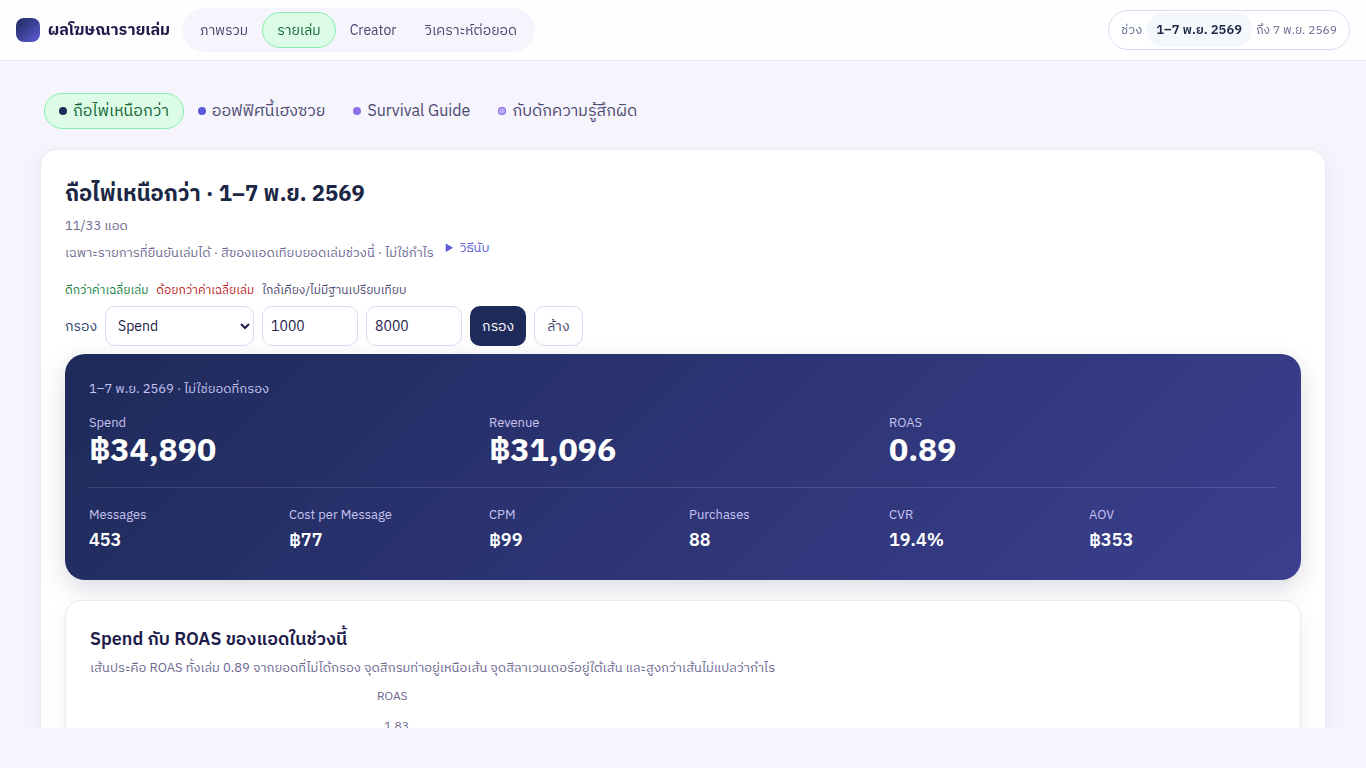
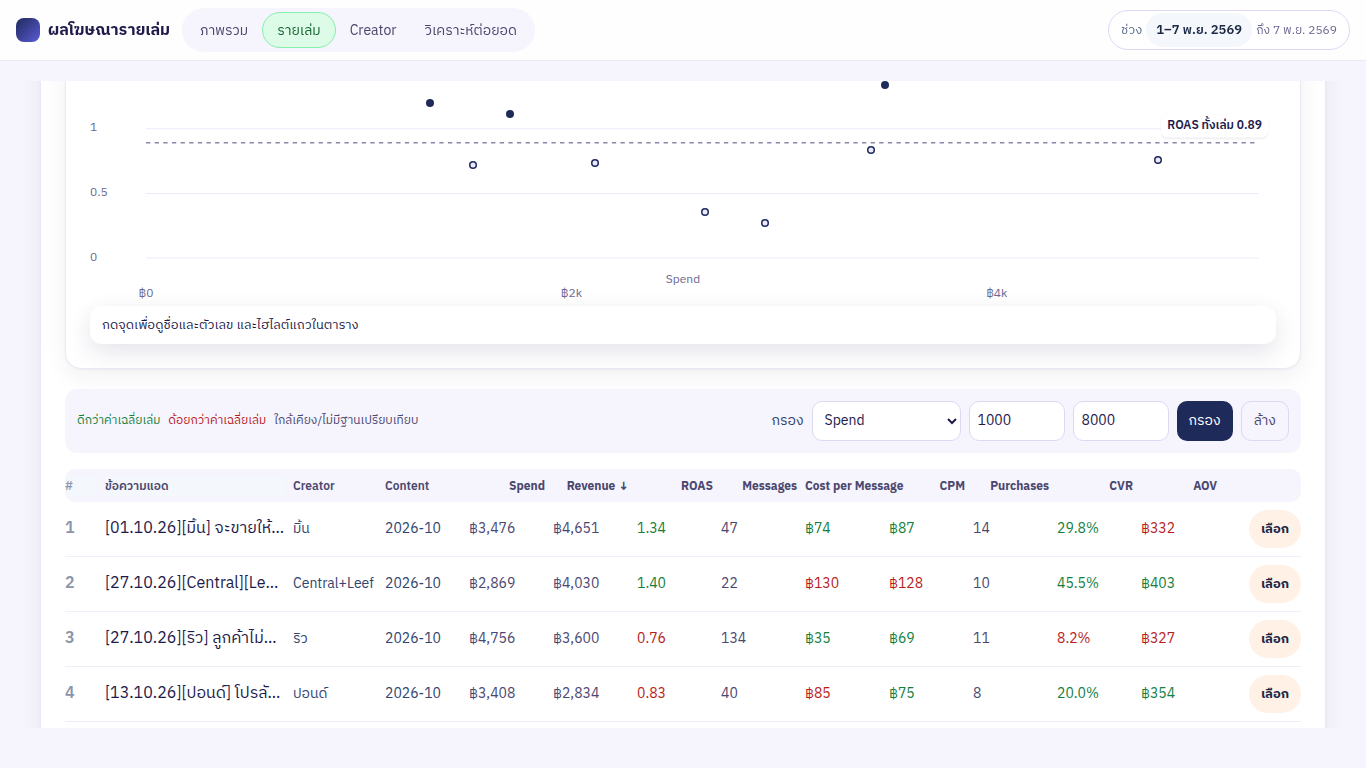
fix: let the scatter use the card and mark high ROAS points
The plot stretches to the card. Points above the scale are triangles, with the true peak written once under the chart. The filter sits with the legend under the summary strip.

diff --git a/public/chart-view.js b/public/chart-view.js
@@ -9,8 +9,8 @@ import {
   trendScale,
   trendSegments,
   trendSeries,
-} from "/shared/chart-data.js?v=20261109t112";
-import { metricCell } from "/shared/history.js?v=20261109t112";
+} from "/shared/chart-data.js?v=20261109t113";
+import { metricCell } from "/shared/history.js?v=20261109t113";
 
 const BOOK_COLOR = {
   Mind: "#1E2A5A",
@@ -132,91 +132,72 @@ export function renderPeriodChart(parent, opts) {
 
 export function renderScatter(parent, ads, baseline, opts) {
   const points = scatterPoints(ads);
-  const layout = scatterLayout(points, baseline, 640, 320);
+  const layout = scatterLayout(points, baseline, 1100, 320);
   const section = el("section", "chart-block scatter-block");
   section.append(el("h3", "", "Spend กับ ROAS ของแอดในช่วงนี้"));
-  section.append(el("p", "chart-note", `เส้นประคือ ROAS ทั้งเล่ม ${baseline == null ? "—" : baseline.toFixed(2)} จากยอดที่ไม่ได้กรอง จุดสีกรมท่าอยู่เหนือเส้น จุดสีลาเวนเดอร์อยู่ใต้เส้น และสูงกว่าเส้นไม่แปลว่ากำไร`));
+  section.append(el("p", "chart-note", `เส้นประคือ ROAS ทั้งเล่ม ${baseline == null ? "—" : baseline.toFixed(2)} จากยอดที่ไม่ได้กรอง จุดทึบอยู่เหนือเส้น จุดขอบอยู่ใต้เส้น และสูงกว่าเส้นไม่แปลว่ากำไร`));
   const host = el("div", "scatter-host");
-  const svg = svgEl("svg", { viewBox: `0 0 ${layout.width} ${layout.height}`, class: "chart scatter-chart", role: "img" });
+  const svg = svgEl("svg", { viewBox: `0 0 ${layout.width} ${layout.height}`, class: "chart scatter-chart", role: "img", preserveAspectRatio: "none" });
   const bookId = opts?.book || "Mind";
   const bookColor = BOOK_COLOR[bookId] || "#1E2A5A";
   const display = scatterDisplay(layout);
+  host.style.setProperty("--book", bookColor);
   if (display.baseY != null) {
     svg.append(svgEl("line", { x1: layout.padL, y1: display.baseY, x2: layout.width - layout.padR, y2: display.baseY, class: "chart-base" }));
-    const labelY = Math.max(layout.padT + 14, display.baseY - 8);
-    const chip = svgEl("rect", { x: layout.padL + 4, y: labelY - 12, width: 118, height: 16, rx: 4, class: "chart-base-chip" });
-    svg.append(chip);
-    const baseLabel = svgEl("text", { x: layout.padL + 8, y: labelY, class: "chart-base-label" });
-    baseLabel.textContent = `ROAS ทั้งเล่ม ${baseline.toFixed(2)}`;
-    svg.append(baseLabel);
-  }
-  for (const tick of layout.xTicks) {
-    const label = svgEl("text", { x: tick.x, y: layout.height - layout.padB + 14, class: "chart-tick x-tick", "text-anchor": "middle" });
-    label.textContent = tick.label;
-    svg.append(label);
   }
   for (const tick of display.yTicks) {
-    const label = svgEl("text", { x: layout.padL - 6, y: tick.y + 4, class: "chart-tick y-tick", "text-anchor": "end" });
-    label.textContent = tick.label;
-    svg.append(label);
+    svg.append(svgEl("line", { x1: layout.padL, y1: tick.y, x2: layout.width - layout.padR, y2: tick.y, class: "trend-gridline" }));
+    const label = el("span", "scatter-ylab y-tick", tick.label);
+    label.style.top = `${(tick.y / layout.height) * 100}%`;
+    host.append(label);
   }
-  const xLabel = svgEl("text", { x: layout.width / 2, y: layout.height - 6, class: "chart-axis-label", "text-anchor": "middle" });
-  xLabel.textContent = "Spend";
-  svg.append(xLabel);
-  const yLabel = svgEl("text", { x: 14, y: 14, class: "chart-axis-label" });
-  yLabel.textContent = "ROAS";
-  svg.append(yLabel);
-  const labeled = scatterCallouts(layout.dots);
+  for (const tick of layout.xTicks) {
+    const label = el("span", "scatter-xlab x-tick", tick.label);
+    label.style.left = `${(tick.x / layout.width) * 100}%`;
+    host.append(label);
+  }
+  const xLabel = el("span", "scatter-axis", "Spend");
+  host.append(xLabel);
+  host.append(svg);
+  const selected = el("span", "scatter-selected");
+  selected.hidden = true;
+  const pinned = [];
   for (const dot of layout.dots) {
-    const button = el("button", "scatter-hit");
-    button.type = "button";
     const shown = display.place(dot);
+    const above = baseline != null && dot.roas >= baseline;
+    const button = el("button", shown.pinned ? "scatter-pin" : `scatter-hit scatter-point ${above || baseline == null ? "above" : "below"}`);
+    button.type = "button";
     button.style.left = `${(shown.x / layout.width) * 100}%`;
     button.style.top = `${(shown.y / layout.height) * 100}%`;
     button.dataset.adId = dot.adId;
     button.setAttribute("aria-label", `${dot.name} Spend ${formatChartValue("spend", dot.spend)} Revenue ${formatChartValue("revenue", dot.revenue)} Messages ${formatChartValue("chats", dot.chats)} Purchases ${formatChartValue("purchases", dot.purchases)} ROAS ${formatChartValue("roas", dot.roas)}`);
-    button.addEventListener("click", () => locateRow(dot.adId));
+    const choose = () => {
+      locateRow(dot.adId);
+      showReadout(readout, dot);
+      host.querySelectorAll(".scatter-point.is-on, .scatter-pin.is-on").forEach((node) => node.classList.remove("is-on"));
+      button.classList.add("is-on");
+      selected.hidden = false;
+      selected.textContent = dot.creator || dot.name.slice(0, 18);
+      selected.style.left = button.style.left;
+      selected.style.top = button.style.top;
+    };
+    button.addEventListener("click", choose);
     button.addEventListener("focus", () => showReadout(readout, dot));
     host.append(button);
-    const above = baseline != null && dot.roas >= baseline;
-    const circle = svgEl("circle", {
-      cx: shown.x,
-      cy: shown.y,
-      r: 4,
-      class: above || baseline == null ? "scatter-dot" : "scatter-dot below",
-      fill: above || baseline == null ? bookColor : "#EDE9FE",
-      stroke: bookColor,
-      "stroke-width": above || baseline == null ? (bookId === "Trap" ? 1 : 0) : 1.5,
-      "fill-opacity": "0.9",
-    });
-    circle.dataset.adId = dot.adId;
-    svg.append(circle);
-    if (shown.pinned) {
-      const flag = svgEl("text", { x: shown.x + 6, y: shown.y + 4, class: "scatter-callout" });
-      flag.textContent = formatChartValue("roas", dot.roas);
-      svg.append(flag);
-    }
+    if (shown.pinned) pinned.push(dot);
   }
-  const placed = [];
-  for (const dot of labeled) {
-    const shown = display.place(dot);
-    let x = shown.x + 8;
-    let y = shown.y - 8;
-    let anchor = "start";
-    if (x > layout.width - 70) {
-      x = shown.x - 8;
-      anchor = "end";
-    }
-    if (placed.some((item) => Math.abs(item.x - x) < 48 && Math.abs(item.y - y) < 14)) y += 14;
-    if (y < 12) y = shown.y + 14;
-    placed.push({ x, y });
-    const text = svgEl("text", { x, y, class: "scatter-callout", "text-anchor": anchor });
-    text.textContent = dot.creator || "ไม่มีป้าย";
-    svg.append(text);
+  if (display.baseY != null) {
+    const baseLabel = el("span", "scatter-base-label chart-base-label", `ROAS ทั้งเล่ม ${baseline.toFixed(2)}`);
+    baseLabel.style.top = `${(display.baseY / layout.height) * 100}%`;
+    host.append(baseLabel);
   }
-  host.append(svg);
+  host.append(selected);
   const readout = el("p", "scatter-readout", "กดจุดเพื่อดูชื่อและตัวเลข และไฮไลต์แถวในตาราง");
   section.append(host, readout);
+  if (pinned.length) {
+    const peak = Math.max(...pinned.map((dot) => dot.roas));
+    section.append(el("p", "chart-note", `${pinned.length} แอด ROAS เกินกราฟ (สูงสุด ${peak.toFixed(2)})`));
+  }
   const skipped = points.length - layout.dots.length;
   if (skipped) section.append(el("p", "chart-note", `ไม่ลงจุด ${skipped} แอดที่หาร ROAS ไม่ได้`));
   parent.append(section);
@@ -260,7 +241,7 @@ function scatterDisplay(layout) {
   return {
     cap,
     baseY: layout.baseline == null ? null : yOf(layout.baseline),
-    yTicks: [0, cap / 2, cap].map((value) => ({ y: yOf(value), label: Number(value.toFixed(2)).toString() })),
+    yTicks: niceScatterTicks(cap).map((value) => ({ y: yOf(value), label: Math.abs(value) < 1e-9 ? "0" : Number(value.toFixed(2)).toString() })),
     place(dot) {
       const pinned = dot.roas > cap + 1e-6;
       let x = dot.x;
@@ -274,6 +255,13 @@ function scatterDisplay(layout) {
       return { x, y, pinned };
     },
   };
+}
+
+function niceScatterTicks(cap) {
+  const step = cap > 5 ? 1 : 0.5;
+  const ticks = [];
+  for (let value = 0; value < cap - step * 0.2; value += step) ticks.push(Number(value.toFixed(2)));
+  return ticks.length ? ticks : [0];
 }
 
 function shownTicks(ticks) {

diff --git a/public/web.js b/public/web.js
@@ -1,12 +1,12 @@
-import { analysisItemId } from "/shared/analysis.js?v=20261109t112";
-import { rates } from "/shared/metrics.js?v=20261109t112";
-import { comparisonRows } from "/shared/comparison.js?v=20261109t112";
-import { FROZEN_PERFORMANCE } from "/shared/cutoff.js?v=20261109t112";
-import { changePct, metricTone, sameLengthBase, TONE_LABEL } from "/shared/conditional.js?v=20261109t112";
-import { contentBadge, STATUS_CHECKED_LABEL } from "/shared/status-labels.js?v=20261109t112";
-import { TABLE_HEAD } from "/shared/labels.js?v=20261109t112";
-import { OVERVIEW_METRICS, OVERVIEW_MONTHS, formatMetric, metricCell } from "/shared/history.js?v=20261109t112";
-import { filterAds, sortAds } from "/shared/ad-query.js?v=20261109t112";
+import { analysisItemId } from "/shared/analysis.js?v=20261109t113";
+import { rates } from "/shared/metrics.js?v=20261109t113";
+import { comparisonRows } from "/shared/comparison.js?v=20261109t113";
+import { FROZEN_PERFORMANCE } from "/shared/cutoff.js?v=20261109t113";
+import { changePct, metricTone, sameLengthBase, TONE_LABEL } from "/shared/conditional.js?v=20261109t113";
+import { contentBadge, STATUS_CHECKED_LABEL } from "/shared/status-labels.js?v=20261109t113";
+import { TABLE_HEAD } from "/shared/labels.js?v=20261109t113";
+import { OVERVIEW_METRICS, OVERVIEW_MONTHS, formatMetric, metricCell } from "/shared/history.js?v=20261109t113";
+import { filterAds, sortAds } from "/shared/ad-query.js?v=20261109t113";
 import {
   CREATOR_METRICS,
   UNKNOWN_LABEL,
@@ -17,8 +17,8 @@ import {
   reconcileCreators,
   sortCreators,
   unknownCreator,
-} from "/shared/creator-rank.js?v=20261109t112";
-import { renderPeriodChart, renderScatter, renderTrendChart } from "/chart-view.js?v=20261109t112";
+} from "/shared/creator-rank.js?v=20261109t113";
+import { renderPeriodChart, renderScatter, renderTrendChart } from "/chart-view.js?v=20261109t113";
 
 const BOOKS = [
   ["Mind", "ถือไพ่เหนือกว่า"],
@@ -242,13 +242,16 @@ function bookTable(name, book, opts) {
   method.append(el("summary", "", "วิธีนับ"));
   method.append(el("p", "history-help", "CVR คือ Purchases ÷ Messages (ซื้อ/แชท) ไม่ใช่ CVR ที่ Meta จับคู่. Revenue คือ omni_purchase ไม่ใช่ BEP. ไม่ได้เทียบเดือนก่อน. ยอดเล่มไม่เปลี่ยนเมื่อกรองแอด."));
   caption.append(method);
-  titles.append(caption, legend());
+  titles.append(caption);
   head.append(titles);
-  wrap.append(head, filterBar(query, opts));
-  if (!filtered.ok) wrap.append(el("p", "metric-filter-error", filtered.message || query.error));
-  else if (query.error) wrap.append(el("p", "metric-filter-error", query.error));
+  wrap.append(head);
   wrap.append(heroCard(totals, `${reportLabel(opts.reportId)} · ไม่ใช่ยอดที่กรอง`));
   renderScatter(wrap, filtered.ok ? filtered.rows : all, baseline, opts);
+  const tools = el("div", "table-tools");
+  tools.append(legend(), filterBar(query, opts));
+  wrap.append(tools);
+  if (!filtered.ok) wrap.append(el("p", "metric-filter-error", filtered.message || query.error));
+  else if (query.error) wrap.append(el("p", "metric-filter-error", query.error));
   const scroller = el("div", "scan-scroll");
   scroller.append(columnHead(baseline, query, opts));
   const bookRate = rates(totals);

diff --git a/public/styles.css b/public/styles.css
@@ -1193,7 +1193,22 @@ body.mode-web .creator-bar-fill.is-top { background: #1E2A5A; }
 body.mode-web .book-switch { display: flex; flex-wrap: wrap; gap: 0; width: fit-content; max-width: 100%; background: #F6F4FC; border-radius: 999px; padding: 4px; margin: 0 0 16px; }
 body.mode-web .book-switch button { display: inline-flex; align-items: center; height: 36px; border: 0; background: transparent; color: #4B4870; border-radius: 999px; padding: 0 14px; }
 body.mode-web .book-switch button.on { background: #DCFCE7; color: #166534; border: 1px solid #86EFAC; }
-body.mode-web .scatter-chart { height: 320px; }
+body.mode-web .scatter-host { position: relative; width: 100%; height: 320px; }
+body.mode-web .scatter-chart { position: absolute; inset: 0; width: 100%; height: 320px; }
+body.mode-web .scatter-ylab, body.mode-web .scatter-xlab, body.mode-web .scatter-axis { position: absolute; color: #6B6890; font-size: 12px; font-weight: 400; line-height: 1; }
+body.mode-web .scatter-ylab { left: 0; transform: translateY(-50%); }
+body.mode-web .scatter-xlab { bottom: 2px; transform: translateX(-50%); }
+body.mode-web .scatter-axis { left: 50%; bottom: 16px; transform: translateX(-50%); }
+body.mode-web .scatter-point, body.mode-web .scatter-pin { position: absolute; padding: 0; }
+body.mode-web .scatter-point { width: 8px; height: 8px; margin: -4px 0 0 -4px; border-radius: 99px; border: 0; }
+body.mode-web .scatter-point.above { background: var(--book, #1E2A5A); }
+body.mode-web .scatter-point.below { background: #EDE9FE; box-shadow: inset 0 0 0 1.5px var(--book, #1E2A5A); }
+body.mode-web .scatter-pin { width: 0; height: 0; margin-left: -5px; border: 0; background: transparent; border-left: 5px solid transparent; border-right: 5px solid transparent; border-bottom: 8px solid var(--book, #1E2A5A); }
+body.mode-web .scatter-point.is-on, body.mode-web .scatter-pin.is-on { outline: 3px solid #5B5BD6; outline-offset: 2px; }
+body.mode-web .scatter-selected { position: absolute; transform: translate(8px, -14px); background: #fff; border-radius: 8px; padding: 2px 6px; font-size: 12px; font-weight: 600; color: #1E1B4B; box-shadow: 0 4px 12px rgba(30, 27, 75, .12); }
+body.mode-web .scatter-base-label { position: absolute; right: 8px; transform: translateY(-120%); background: #fff; border-radius: 6px; padding: 2px 6px; font-size: 12px; font-weight: 600; color: #1E1B4B; box-shadow: 0 1px 2px rgba(30, 27, 75, .08); }
+body.mode-web .table-tools { display: flex; flex-wrap: wrap; gap: 12px; align-items: center; justify-content: space-between; background: #F6F4FC; border-radius: 12px; padding: 12px; margin: 16px 0; }
+body.mode-web .table-tools .tone-legend, body.mode-web .table-tools .metric-filter { margin: 0; }
 body.mode-web .chart-base { stroke: #8A87A8; stroke-opacity: 1; stroke-dasharray: 4 4; }
 body.mode-web .chart-base-chip { fill: #fff; }
 body.mode-web .chart-base-label { fill: #1E1B4B; font-size: 12px; font-weight: 600; }

diff --git a/test/ui.test.js b/test/ui.test.js
@@ -228,8 +228,8 @@ test("November overview and Mind book stay on the selected period", async () => 
     await page.keyboard.press("Escape");
     await page.waitForFunction(() => !document.querySelector("#zoom[open]"));
     assert.match(await page.$eval(".scatter-block .chart-note", (node) => node.textContent), /ไม่แปลว่ากำไร/);
-    const xTicks = await page.$$eval(".scatter-chart .x-tick", (nodes) => nodes.map((node) => node.textContent));
-    const yTicks = await page.$$eval(".scatter-chart .y-tick", (nodes) => nodes.map((node) => node.textContent));
+    const xTicks = await page.$$eval(".scatter-host .x-tick", (nodes) => nodes.map((node) => node.textContent));
+    const yTicks = await page.$$eval(".scatter-host .y-tick", (nodes) => nodes.map((node) => node.textContent));
     assert.ok(xTicks.includes("฿0"));
     assert.ok(xTicks.some((label) => /฿\d+k/.test(label)));
     assert.ok(yTicks.some((label) => label === "0" || label.startsWith("0.")));
@@ -280,6 +280,7 @@ test("November overview and Mind book stay on the selected period", async () => 
     await page.click(".metric-reset");
     await page.waitForFunction(() => document.querySelector(".scan-count").textContent === "33/33 แอด");
     assert.equal(await page.$$eval(".scan-row", (nodes) => nodes.length), 33);
+    await page.$eval(".scatter-block", (node) => node.scrollIntoView({ block: "center" }));
     await page.screenshot({ path: "/opt/cursor/artifacts/mind-nov-unfiltered-1366.png" });
     await page.screenshot({ path: "/workspace/docs/progress/mind-nov-unfiltered-1366.png" });
 

diff --git a/public/app.js b/public/app.js
@@ -1,11 +1,11 @@
-import { analysisItemId } from "/shared/analysis.js?v=20261109t112";
-import { changePct, metricTone, TONE_LABEL } from "/shared/conditional.js?v=20261109t112";
-import { TABLE_HEAD } from "/shared/labels.js?v=20261109t112";
-import { rates, sumTotals, volumeFlag } from "/shared/metrics.js?v=20261109t112";
-import { MAX_NOTE, NOTE_IDS, SLIDE_IDS } from "/shared/slides.js?v=20261109t112";
-import { contentBadge } from "/shared/status-labels.js?v=20261109t112";
-import { renderWeb } from "/web.js?v=20261109t112";
-import { defaultCreatorDir } from "/shared/creator-rank.js?v=20261109t112";
+import { analysisItemId } from "/shared/analysis.js?v=20261109t113";
+import { changePct, metricTone, TONE_LABEL } from "/shared/conditional.js?v=20261109t113";
+import { TABLE_HEAD } from "/shared/labels.js?v=20261109t113";
+import { rates, sumTotals, volumeFlag } from "/shared/metrics.js?v=20261109t113";
+import { MAX_NOTE, NOTE_IDS, SLIDE_IDS } from "/shared/slides.js?v=20261109t113";
+import { contentBadge } from "/shared/status-labels.js?v=20261109t113";
+import { renderWeb } from "/web.js?v=20261109t113";
+import { defaultCreatorDir } from "/shared/creator-rank.js?v=20261109t113";
 
 const BOOKS = [
   { id: "Mind", name: "ถือไพ่เหนือกว่า", cls: "mind" },

diff --git a/public/index.html b/public/index.html
@@ -4,7 +4,7 @@
   <meta charset="utf-8">
   <meta name="viewport" content="width=device-width, initial-scale=1">
   <title>ผลโฆษณารายเล่ม</title>
-  <link rel="stylesheet" href="/styles.css?v=20261109t112">
+  <link rel="stylesheet" href="/styles.css?v=20261109t113">
 </head>
 <body class="mode-web">
   <div id="boot-error" hidden></div>
@@ -45,7 +45,7 @@
       <p id="detail-note"></p>
     </form>
   </dialog>
-  <script src="/boot.js?v=20261109t112"></script>
-  <script type="module" src="/app.js?v=20261109t112"></script>
+  <script src="/boot.js?v=20261109t113"></script>
+  <script type="module" src="/app.js?v=20261109t113"></script>
 </body>
 </html>

diff --git a/public/login.html b/public/login.html
@@ -4,7 +4,7 @@
   <meta charset="utf-8">
   <meta name="viewport" content="width=device-width, initial-scale=1">
   <title>เข้าสู่ระบบ — ผลโฆษณารายเล่ม</title>
-  <link rel="stylesheet" href="/styles.css?v=20261109t112">
+  <link rel="stylesheet" href="/styles.css?v=20261109t113">
 </head>
 <body class="gate">
   <main class="gate-card">
@@ -16,6 +16,6 @@
       <p id="login-error" class="login-error"></p>
     </form>
   </main>
-  <script type="module" src="/login.js?v=20261109t112"></script>
+  <script type="module" src="/login.js?v=20261109t113"></script>
 </body>
 </html>
